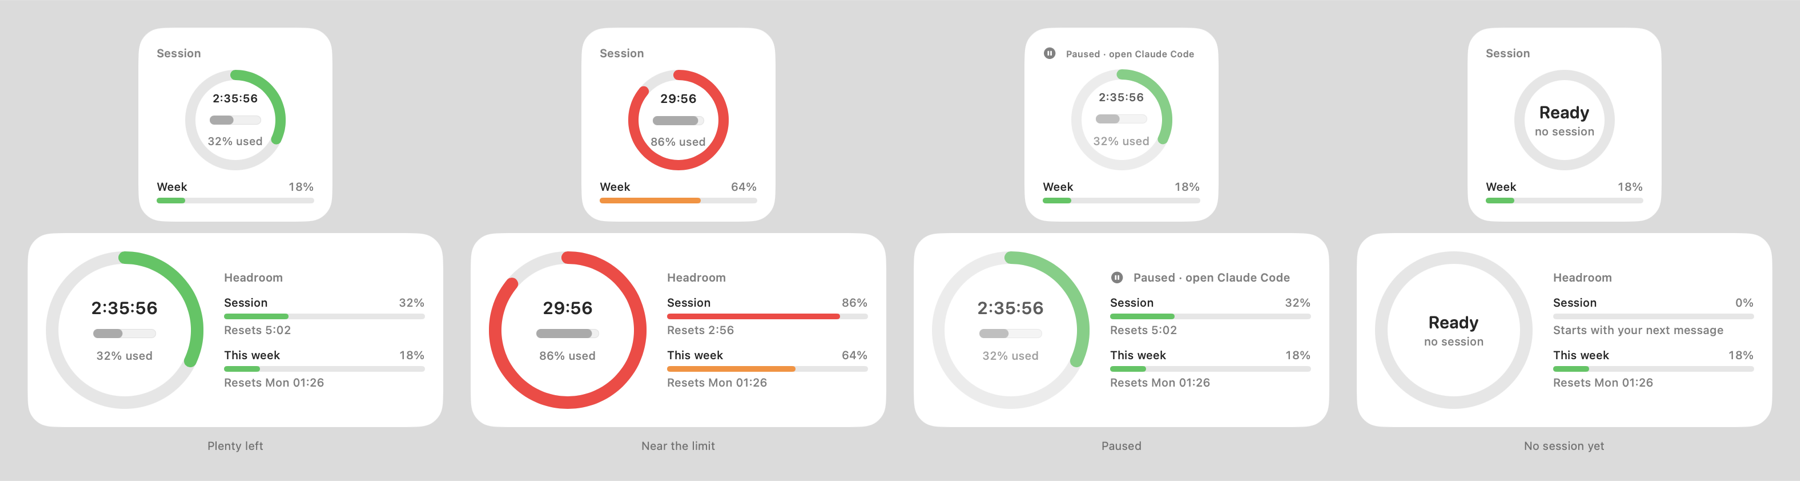
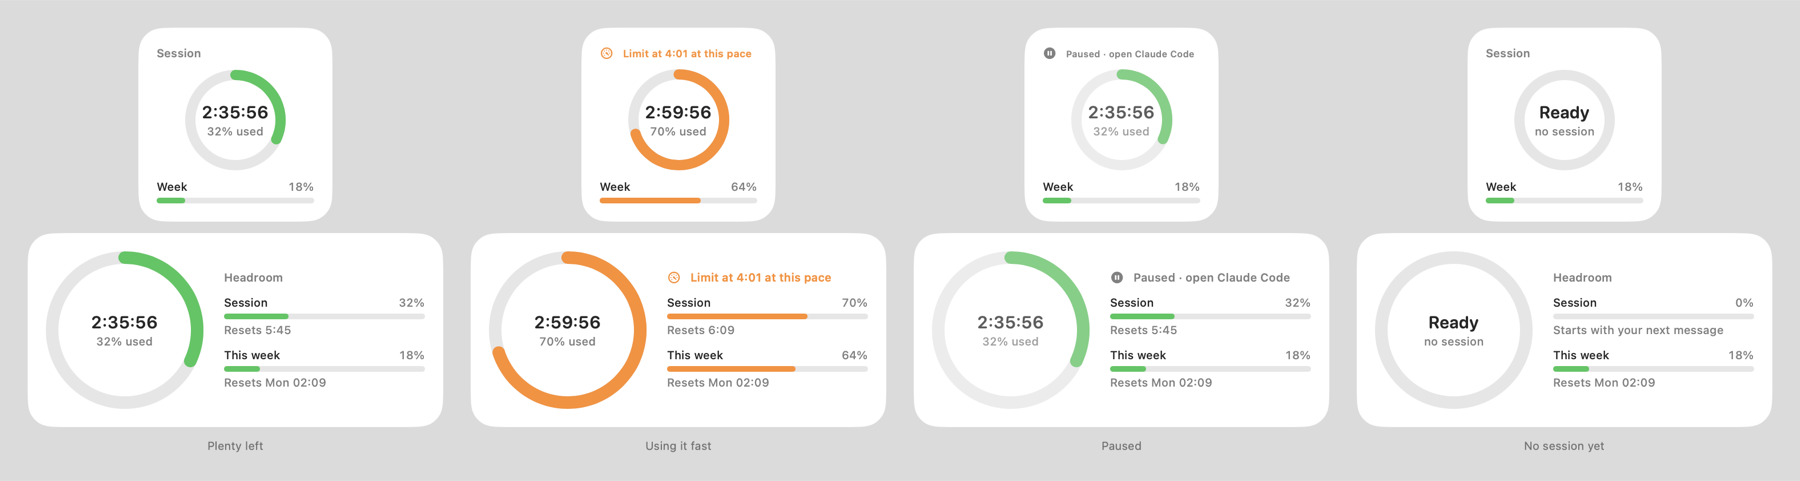
Swap the time bar for a pace warning
The bar under the countdown was hard to read. Instead, when the session is
being used faster than it lasts, the status line says when the limit will be
hit at that pace ("Limit at 14:50 at this pace"); otherwise it stays quiet.

diff --git a/Sources/Shared/Views.swift b/Sources/Shared/Views.swift
@@ -79,9 +79,6 @@ struct SessionRing: View {
     var animated = false
     @State private var shown: Double?
 
-    /// The session window's length.
-    static let window: TimeInterval = 5 * 3600
-
     var body: some View {
         let used = min(1, reading.sessionUsed ?? 0)
         let drawn = animated ? (shown ?? 0) : used
@@ -102,17 +99,6 @@ struct SessionRing: View {
                         .font(.system(.title3, design: .rounded).weight(.semibold))
                         .monospacedDigit()
                         .multilineTextAlignment(.center)
-                    // How much of the 5 hours is left, emptying live with the countdown
-                    // above it (widgets allow this one).
-                    ProgressView(timerInterval: ends.addingTimeInterval(-Self.window)...ends, countsDown: true) {
-                        EmptyView()
-                    } currentValueLabel: {
-                        EmptyView()
-                    }
-                    .progressViewStyle(.linear)
-                    .tint(Color.secondary)
-                    .frame(width: lineWidth * 5)
-                    .padding(.vertical, 2)
                     Group {
                         if animated {
                             CountingPercent(value: drawn, suffix: " used")
@@ -182,7 +168,8 @@ struct Meter: View {
     }
 }
 
-/// "Session", or why the figures can't be trusted right now.
+/// "Session", or why the figures can't be trusted right now, or when you'll hit the
+/// limit if you keep going at this pace.
 struct StatusLine: View {
     let reading: Reading
     var title = "Session"
@@ -192,6 +179,9 @@ struct StatusLine: View {
             if let note = reading.note {
                 Label(note.text, systemImage: note.symbol)
                     .foregroundStyle(note.isCalm ? Color.secondary : Color.orange)
+            } else if let out = reading.runsOutAt {
+                Label("Limit at \(When.clock(out)) at this pace", systemImage: "gauge.with.dots.needle.100percent")
+                    .foregroundStyle(.orange)
             } else {
                 Text(title).foregroundStyle(.secondary)
             }

diff --git a/Sources/Shared/Limits.swift b/Sources/Shared/Limits.swift
@@ -110,9 +110,16 @@ struct Reading {
     var weekSonnetUsed: Double?
     var measuredAt: Date?
     var note: Note?
+    /// When the session limit will be hit at the pace used so far, if that's before
+    /// the session resets; nil while there's room to spare.
+    var runsOutAt: Date?
 
     /// Figures older than this are flagged: the app isn't getting new ones.
     static let staleAfter: TimeInterval = 40 * 60
+    /// The session window's length.
+    static let window: TimeInterval = 5 * 3600
+    /// Too early in a session to judge its pace.
+    static let paceAfter: TimeInterval = 15 * 60
 
     init(_ limits: Limits?, at now: Date) {
         guard let limits else { note = .noData; return }
@@ -126,6 +133,15 @@ struct Reading {
         weekOpusUsed = current(limits.weekOpus).0
         weekSonnetUsed = current(limits.weekSonnet).0
         measuredAt = limits.measuredAt
+
+        // Pace: the share used per second so far, as of the reading, run forward.
+        if let used = sessionUsed, used > 0, used < 1, let ends = sessionEnds, let measured = limits.measuredAt {
+            let elapsed = Self.window - ends.timeIntervalSince(measured)
+            if elapsed >= Self.paceAfter {
+                let out = measured.addingTimeInterval((1 - used) / (used / elapsed))
+                if out > now && out < ends { runsOutAt = out }
+            }
+        }
 
         let stale = limits.measuredAt.map { now.timeIntervalSince($0) > Self.staleAfter } ?? true
         guard stale else { return }
@@ -143,7 +159,8 @@ struct Reading {
     /// resets, or the figures get old enough to flag.
     static func changes(of limits: Limits?, after now: Date) -> [Date] {
         guard let limits else { return [] }
-        let moments = [limits.session?.resetsAt, limits.week?.resetsAt, limits.measuredAt?.addingTimeInterval(staleAfter)]
+        let moments = [limits.session?.resetsAt, limits.week?.resetsAt, limits.measuredAt?.addingTimeInterval(staleAfter),
+                       Reading(limits, at: now).runsOutAt]
         return moments.compactMap { $0?.addingTimeInterval(1) }.filter { $0 > now }.sorted()
     }
 }

diff --git a/Sources/App/HeadroomApp.swift b/Sources/App/HeadroomApp.swift
@@ -183,7 +183,8 @@ final class Monitor: ObservableObject {
         let r = Reading(limits, at: .now)
         let shows = [percent(r.sessionUsed), percent(r.weekUsed),
                      r.sessionEnds.map { "\(Int($0.timeIntervalSince1970 / 60))" } ?? "-",
-                     r.note?.text ?? "", limits?.status.rawValue ?? ""].joined(separator: "|")
+                     r.note?.text ?? "", limits?.status.rawValue ?? "",
+                     r.runsOutAt.map { "\(Int($0.timeIntervalSince1970 / 60))" } ?? ""].joined(separator: "|")
         guard shows != widgetShows || Date.now.timeIntervalSince(widgetReloaded) > 20 * 60 else { return }
         widgetShows = shows
         widgetReloaded = .now

diff --git a/README.md b/README.md
@@ -17,8 +17,9 @@ mobile apps.
 - **A desktop widget**, small or medium. A ring shows how much of the session is
   used, with a live countdown to its reset inside; a bar shows the week. Green
   while there's room, orange past half, red near the limit. Click it to refresh.
-- **Time left at a glance.** A thin bar under the countdown empties live as the
-  5 hours run out, next to the ring showing how much of them you've used.
+- **An early warning.** When you're using the session faster than it lasts, the
+  widget says when you'll hit the limit at that pace, for example *Limit at
+  14:50 at this pace*. Otherwise it stays quiet.
 - **A menu bar item:** a small ring that fills as the session is used, with the
   percentage or the time left next to it. Click it for the details, including
   the separate Opus and Sonnet weekly limits when your plan has them.
